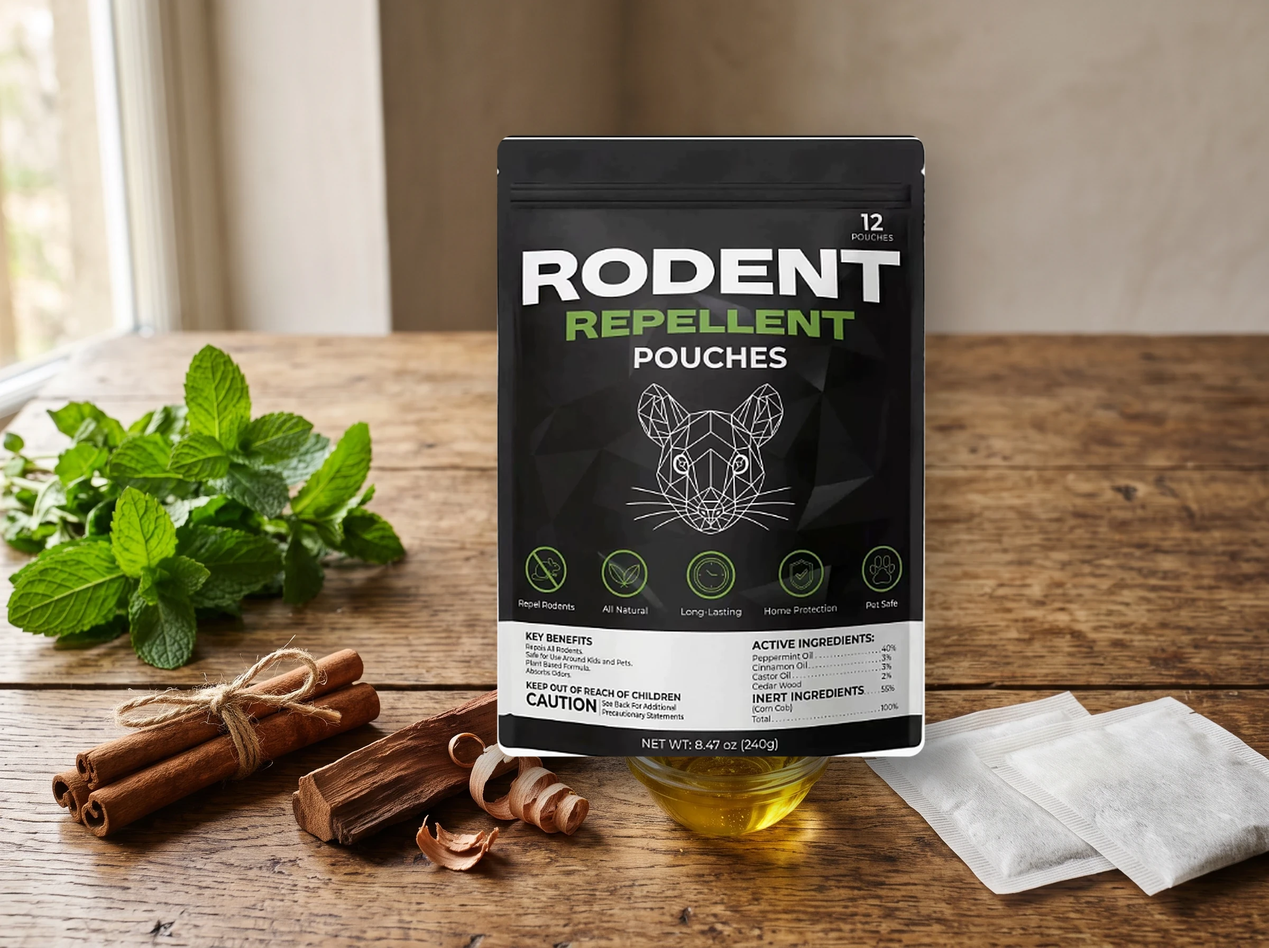
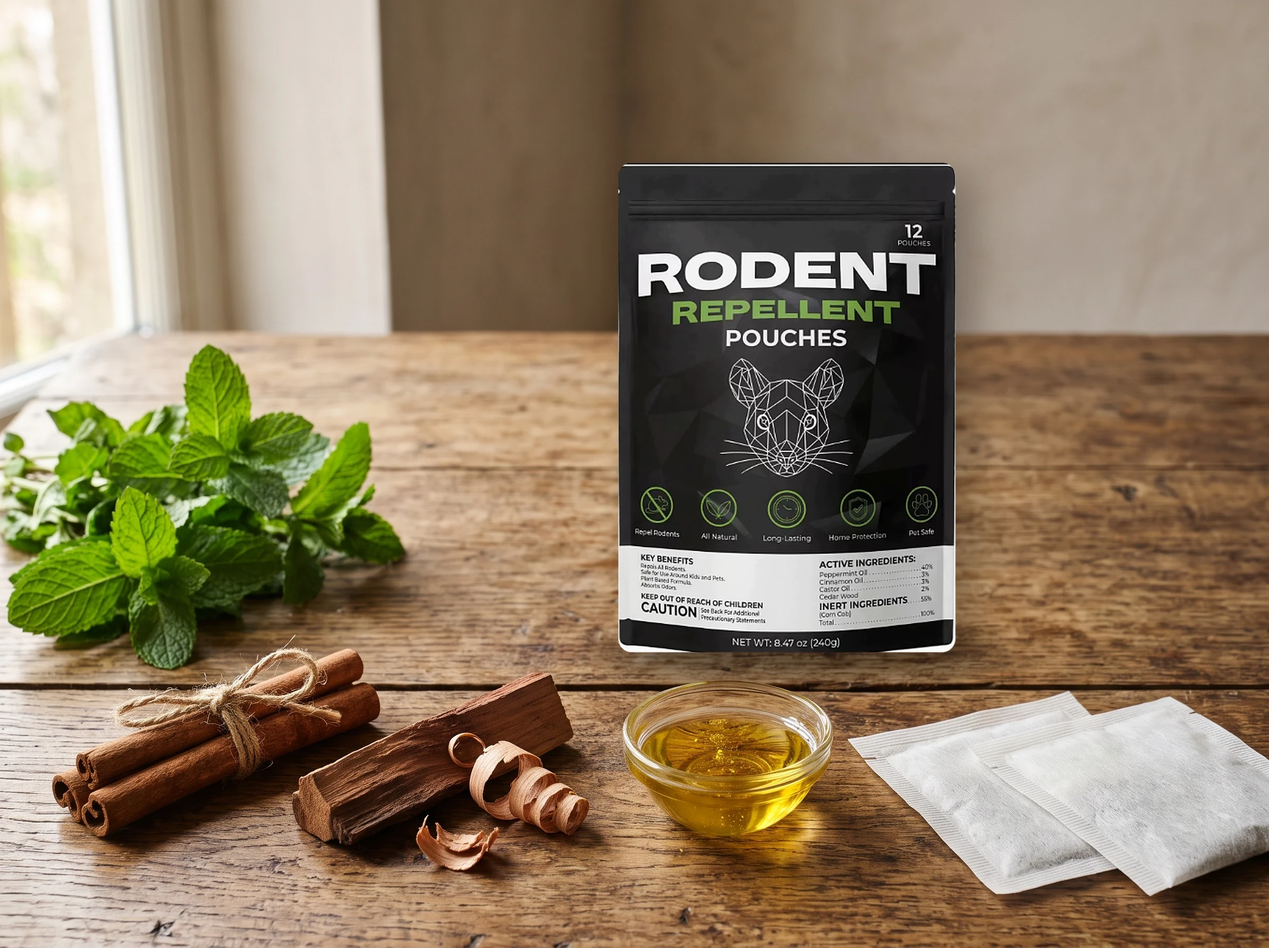
9-reason funnel: review round 3
- checkout: a reload keeps the buyer's own choice; the sales page's
  ?forceBundleId=main:buy3 no longer switches a one-time buyer back to
  the subscription (new check in nine_check.cjs)
- cedarwood animation on this page: a new mouse walks up, stops and
  turns back; no occupied nest leaving, which reason 7 rules out
- "reaches every mouse that comes near" instead of "works on"
- ingredient picture: the pack stands on the table behind the dish
- sharper embedded hero for phones, "every month you wait can mean
  another litter", a plan mark that fits every card, the offer hint
  links to the map, a last-offer headline that fits every buyer

Claude-Session: https://claude.ai/code/session_01Qgw6hQjpo1ZBtDhid4uk4A

Changed region(s): [[0.375, 0.125, 0.7812, 0.875]]

diff --git a/tools/funnel/getridof/nine/page.html b/tools/funnel/getridof/nine/page.html
@@ -288,7 +288,7 @@
 
 <section class="sec sec--dark fin"><div class="w nar c">
   <h2 class="h2">A quiet house. A clean pantry shelf. Nothing to empty.</h2>
-  <p>That is what you actually want: mice that stop coming in, and a winter you don't spend thinking about them. Cold nights are when they move indoors, and every week you wait is another litter. Put a pouch at every way in today and count the difference in 14 days. Up to 68% off ends Dec 1.</p>
+  <p>That is what you actually want: mice that stop coming in, and a winter you don't spend thinking about them. Cold nights are when they move indoors, and every month you wait can mean another litter. Put a pouch at every way in today and count the difference in 14 days. Up to 68% off ends Dec 1.</p>
   <a class="btn" href="/mice-9-reasons/checkout/" data-gro-atc data-gro-src="final">Get up to 68% off →</a>
   <p class="und" style="color:#c9d6c0">90-day money-back guarantee · Free US shipping</p>
 </div></section>
@@ -301,7 +301,7 @@
   <a class="btn" href="/mice-9-reasons/checkout/" data-gro-atc data-gro-src="sticky">Claim offer →</a>
 </div>
 
-<script>addEventListener('load',function(){if(innerWidth>=768){var i=document.querySelector('.lh__m img'),n=new Image;n.onload=function(){i.src=n.src};n.src='/mice-9-reasons/n9/hero.webp'}});</script>
+<script>addEventListener('load',function(){if(innerWidth>=900){var i=document.querySelector('.lh__m img'),n=new Image;n.onload=function(){i.src=n.src};n.src='/mice-9-reasons/n9/hero.webp'}});</script>
 <script>@@JS@@</script>
 @@TRACKING@@
 </body>

diff --git a/tools/funnel/getridof/nine/n9.css b/tools/funnel/getridof/nine/n9.css
@@ -67,3 +67,9 @@
 .sz i{font-style:normal;font-size:13px;color:var(--mut);align-self:start;padding-bottom:10px}
 #size .btn{max-width:420px;margin:6px auto 0}
 @media(min-width:768px){.sz{grid-template-columns:repeat(3,1fr)}.sz>div{grid-template-columns:1fr;padding:0 0 12px;text-align:center}.sz img{grid-row:auto;width:100%;height:auto;aspect-ratio:4/3}.sz b{padding-top:12px}.sz i{padding:0 10px}}
+/* cedarwood card on this page: the pouch is already there; a new mouse walks up, stops and turns back */
+#r2 .an3 .pd{animation:none;opacity:1}
+#r2 .an3 .m{animation:gro-n9c 8s linear infinite}
+#r2 .an3 .q{animation:gro-q1 8s linear infinite}
+@keyframes gro-n9c{0%{transform:translateX(-14px);opacity:1}34%,50%{transform:translateX(160px);opacity:1}53%{transform:translateX(160px) scaleX(-1);opacity:1}86%{transform:translateX(-22px) scaleX(-1);opacity:1}89%,100%{transform:translateX(-22px) scaleX(-1);opacity:0}}
+@media(prefers-reduced-motion:reduce){#r2 .an3 .m{opacity:1;transform:translateX(150px) scaleX(-1)}}

diff --git a/tools/funnel/getridof/nine/checkout.css b/tools/funnel/getridof/nine/checkout.css
@@ -44,3 +44,7 @@
 .upsell-container a.button.cc-xl,.upsell-wrapper a.button.cc-xl,a.button.cc-xl{background:#2f7d1e!important;border-color:#2f7d1e!important;color:#fff!important;line-height:1.25}
 a.button.cc-xl:hover{background:#256617!important}
 #gro-plan .upsell-link.cc-decline{display:block;text-align:center;margin-top:10px;font-size:15px;color:#4a554c;text-decoration:underline}
+/* 7. the plan mark fits every card */
+#gro-plan .next-bundle-tier-grid,#gro-plan .next-bundle-qty{overflow:visible}
+#gro-plan .os-card[data-gq-rec]::before{content:"✓ Your plan";font-size:10.5px;padding:3px 8px}
+#gro-plan .text-xl a{color:#2f6b1c;text-decoration:underline;font-weight:700}

diff --git a/tools/funnel/getridof/build_nine.py b/tools/funnel/getridof/build_nine.py
@@ -54,7 +54,7 @@ IMAGES = {
     'home-apartment': ('gro-home-apartment.webp', 480, 72, 4 / 3), 'home-ranch': ('gro-home-ranch.webp', 480, 72, 4 / 3),
     'home-two-story': ('gro-home-two-story.webp', 480, 72, 4 / 3), 'home-large': ('gro-home-large.webp', 480, 72, 4 / 3),
 }
-HERO = ('gro-n9-hero-sink.webp', 640, 60, 16 / 9)     # inlined: the first screen paints from the HTML alone
+HERO = ('gro-n9-hero-sink.webp', 828, 52, 16 / 9)     # inlined: the first screen paints from the HTML alone
 
 # The post-purchase offers. One package (id 1, the one-time pack) with the campaign's own vouchers:
 #   GROU1PK30Q    70.02% off any quantity   (offer 10)  -> 1, 2 or 3 more packs
@@ -130,6 +130,15 @@ def checkout():
         assert s.count(a) == 1, (a[:70], s.count(a))
         s = s.replace(a, b)
     rep('address_form:\n  label_style: inset\n  gated: false\n', 'address_form:\n  label_style: inset\n  gated: true\n')
+    # The sales page links here with ?forceBundleId=main:buy3, and that stays in the address bar. A phone browser reloads
+    # a background tab, which would re-apply buy3 over a choice the buyer made here (for example one-time, 1 pack). So
+    # the first visit records the parameter it applied, and a reload with the same parameter gets the buyer's last choice
+    # (sessionStorage.gro_bundle, written by the script below) in its place, before the Campaign Cart SDK reads the URL.
+    keep = ("<script>(function(){try{var q=/([?&]forceBundleId=)([^&#]*)/i.exec(location.search);if(!q)return;var v=decodeURIComponent(q[2]),"
+            "seen=sessionStorage.getItem('gro_fb'),own=sessionStorage.getItem('gro_bundle');"
+            "if(seen===v&&own&&/^(buy|ot)[13]$/.test(own)&&v!=='main:'+own){history.replaceState(history.state,'',location.pathname+"
+            "location.search.replace(q[0],q[1]+encodeURIComponent('main:'+own))+location.hash)}else sessionStorage.setItem('gro_fb',v)}catch(e){}})();</script>\n")
+    rep('<script>(function(){var m=/[?&]forceBundleId=main', keep + '<script>(function(){var m=/[?&]forceBundleId=main')
     rep('<div class="gro-addr"><div data-next-address="shipping"',
         '<div class="form-group gro-names">'
         '<div class="form-input"><label for="shipping_fname" class="label-checkout">First Name</label><input autocomplete="given-name" placeholder="First Name*" maxlength="256" name="shipping_fname" data-name="Shipping First Name" type="text" id="shipping_fname" data-next-checkout-field="fname" class="input-flds"></div>'
@@ -191,7 +200,7 @@ OFFERS = {
         title='A Smaller Start', next='receipt.html', decline='receipt.html', quiz=False,
         announce='BEFORE YOU GO · LAST OFFER ON THIS ORDER',
         badge_note='This is the last offer before your receipt.',
-        hero_title='Not Ready for the Full Plan? Take the Smaller Step.',
+        hero_title='One Last Add-On Before Your Receipt',
         hero_text='Pick one more pack for the room mice move to next, or take the whole-home 5 packs at our lowest price. Added to the order you just placed.',
         selector='home-plan-last', offer_title='Rodent Repellent Pouches', image='n9/pack.webp',
         quantity_label='Choose one',
@@ -224,7 +233,7 @@ def offer_page(o):
              f'  display_bundle_id: {q(o["selector"] + "-display-card")}',
              f'  title: {q(o["offer_title"])}', f'  image: {q(o["image"])}', f'  quantity_label: {q(o["quantity_label"])}',
              '  price_label: "Yours today"', f'  accept_text: {q(o["accept"])}',
-             '  details_hint: "Where the extra pouches go ↓"', f'  decline_text: {q(o["decline_text"])}',
+             '  details_hint: "<a href=\\"#gro-map\\">See where the extra pouches go ↓</a>"', f'  decline_text: {q(o["decline_text"])}',
              'upsell_bundle_tiers:'] + o['tiers'] + [
              'offer_bullets:'] + [f'  - {q(b)}' for b in o['bullets']] + [
              'upsell_body:', '  - type: features', f'    title: {q(o["features_title"])}', f'    text: {q(o["features_text"])}',
@@ -246,7 +255,7 @@ def offers():
     assert hero in tpl and offer in tpl and body in tpl
     tpl = tpl.replace(hero, "    {% campaign_include 'gro-offer-badges.html' badge_note=badge_note %}\n" + hero)
     tpl = tpl.replace(offer, "    {% if gro_quiz %}{% campaign_include 'gro-quiz.html' %}{% endif %}\n    <div id=\"gro-plan\">\n" + offer + "    </div>\n")
-    tpl = tpl.replace(body, "    {% campaign_include 'gro-house-map.html' map_title=map_title map_intro=map_intro %}\n" + body)
+    tpl = tpl.replace(body, "    <div id=\"gro-map\">{% campaign_include 'gro-house-map.html' map_title=map_title map_intro=map_intro %}</div>\n" + body)
     for name, o in OFFERS.items():
         (CAMP / f'{name}.html').write_text(offer_page(o) + tpl, encoding='utf-8')
     quiz = (HERE / 'quiz.html').read_text()
@@ -290,9 +299,20 @@ def main():
             ('Job 3 · Takes away the nest', 'Job 3 · Spoils the nesting spots'),
             ('The nesting corner smells wrong: they move out', 'The corner smells wrong: no place to settle'),
             ("Nowhere smells safe to settle, so they don't stay.", 'A new arrival finds nowhere that smells safe to settle. (A nest already in your wall is a different job: see reason 7.)'),
-            ('<span>No nest</span>', '<span>No place to settle</span>')):
+            ('<span>No nest</span>', '<span>No place to settle</span>'),
+            ('Animation: a mouse sits in its nest in a storage corner. A pouch is placed on the shelf, the cedarwood scent fills the corner and the mouse leaves the nest.',
+             'Animation: a mouse walks toward a storage corner where a pouch sits on the shelf, stops at the cedarwood scent and turns back without settling.'),
+            ('A scent barrier works on every mouse that comes near, because every mouse has to breathe.',
+             'A scent barrier reaches every mouse that comes near, because every mouse has to breathe.')):
         assert whys.count(a) == 1, f'ingredient card text changed on the sales page: {a}'
         whys = whys.replace(a, b)
+    # the cedarwood animation on this page: no nest and no "EMPTY" label; a "?" where the mouse stops (CSS in nine/n9.css)
+    k = whys.index('<figure class="an an3">'); e = whys.index('</figure>', k)
+    an3, n = re.subn(r'<g class="ns">.*?</g>', '', whys[k:e], count=1, flags=re.S)
+    an3, m = re.subn(r'<text class="em dl"[^>]*>EMPTY</text>', '', an3, count=1)
+    assert n == 1 and m == 1, 'the cedarwood animation changed on the sales page'
+    an3 = an3.replace('<text class="cp"', '<text class="q" x="166" y="76" text-anchor="middle">?</text><text class="cp"', 1)
+    whys = whys[:k] + an3 + whys[e:]
     whys = whys.replace('<p class="note">Animated illustrations. Place one pouch at every entry point. Results vary by home.</p>',
                         '<p class="note">The animations illustrate what each oil is in the blend to do. They are not test footage. Results vary by home.</p>')
     ls.SLUG = SLUG                                   # the review wall and comment thread link this funnel's own images

diff --git a/tools/funnel/getridof/nine/pack_pictures.py b/tools/funnel/getridof/nine/pack_pictures.py
@@ -61,7 +61,7 @@ def place(bg, height, cx, base_y, shadow=True):
 # 1. reason 2: the pack among its ingredients
 st = Image.open(B / 'gro-n9-still-bg.webp').convert('RGBA')
 W, H = st.size
-st = place(st, round(H * .66), round(W * .56), round(H * .80))
+st = place(st, round(H * .52), round(W * .62), round(H * .69))
 st.convert('RGB').save(B / 'gro-n9-ingredients.webp', 'WEBP', quality=90, method=6)
 
 # 2. offer pages: the pack on a soft studio background
